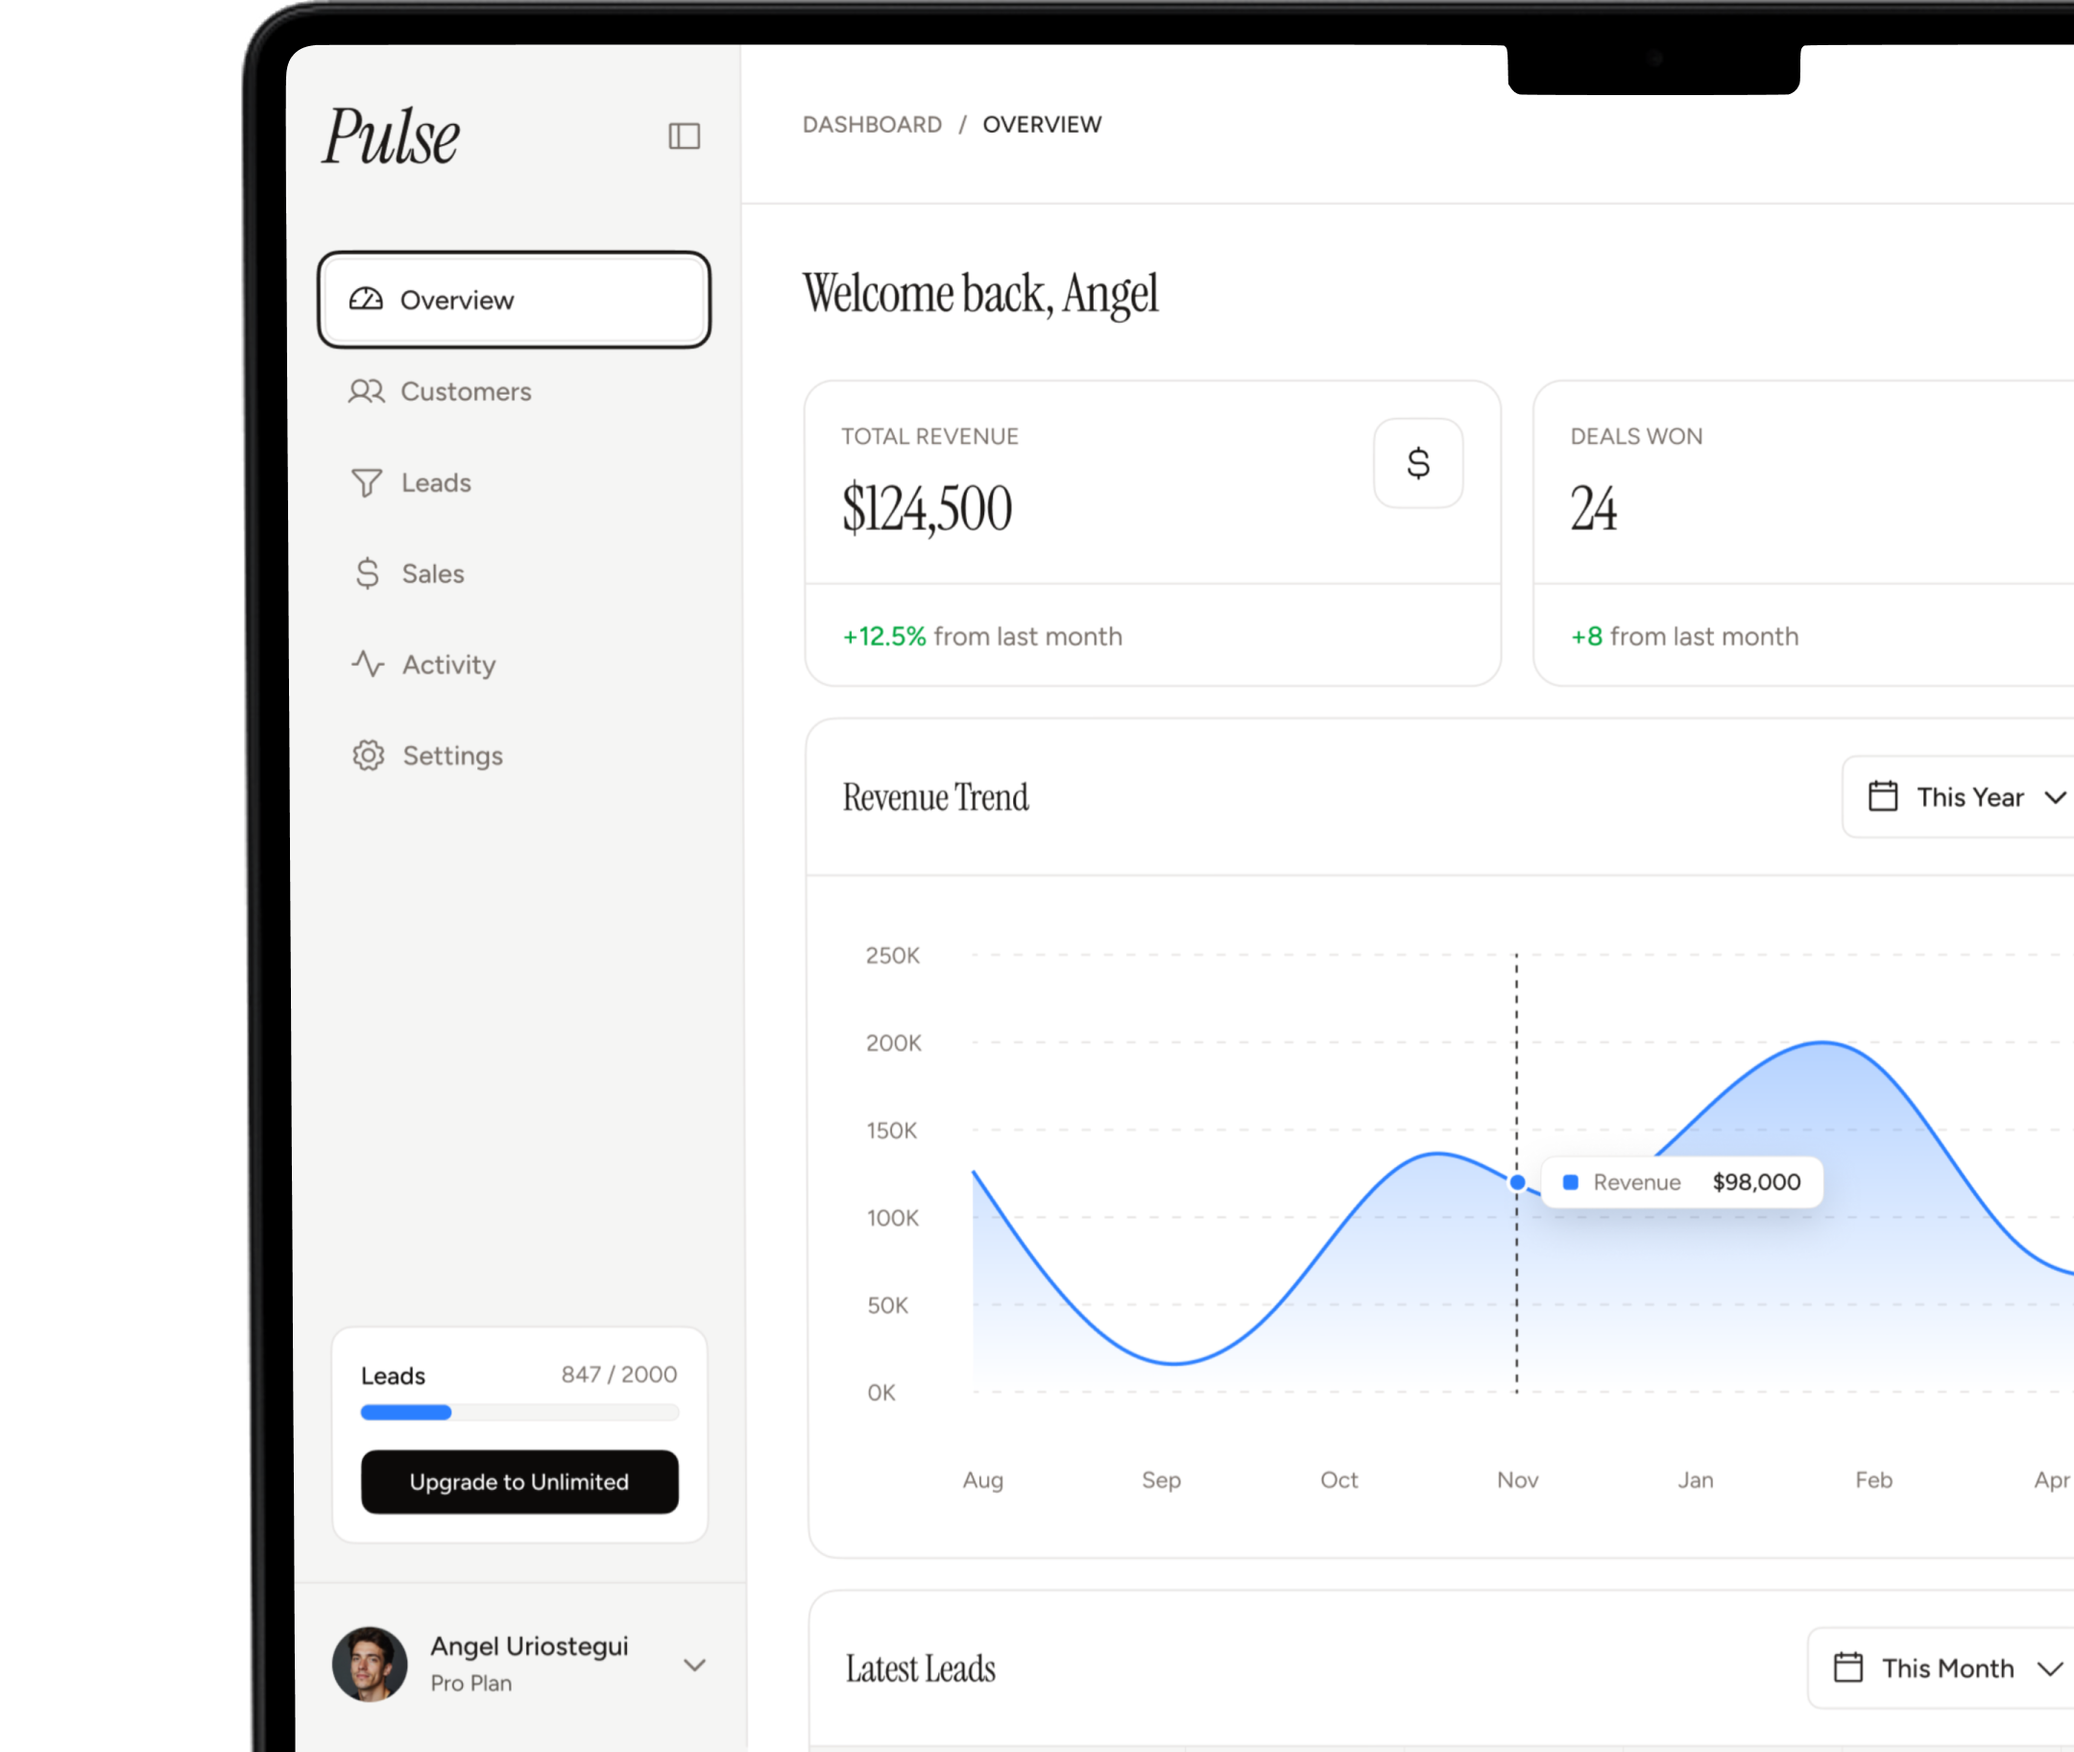
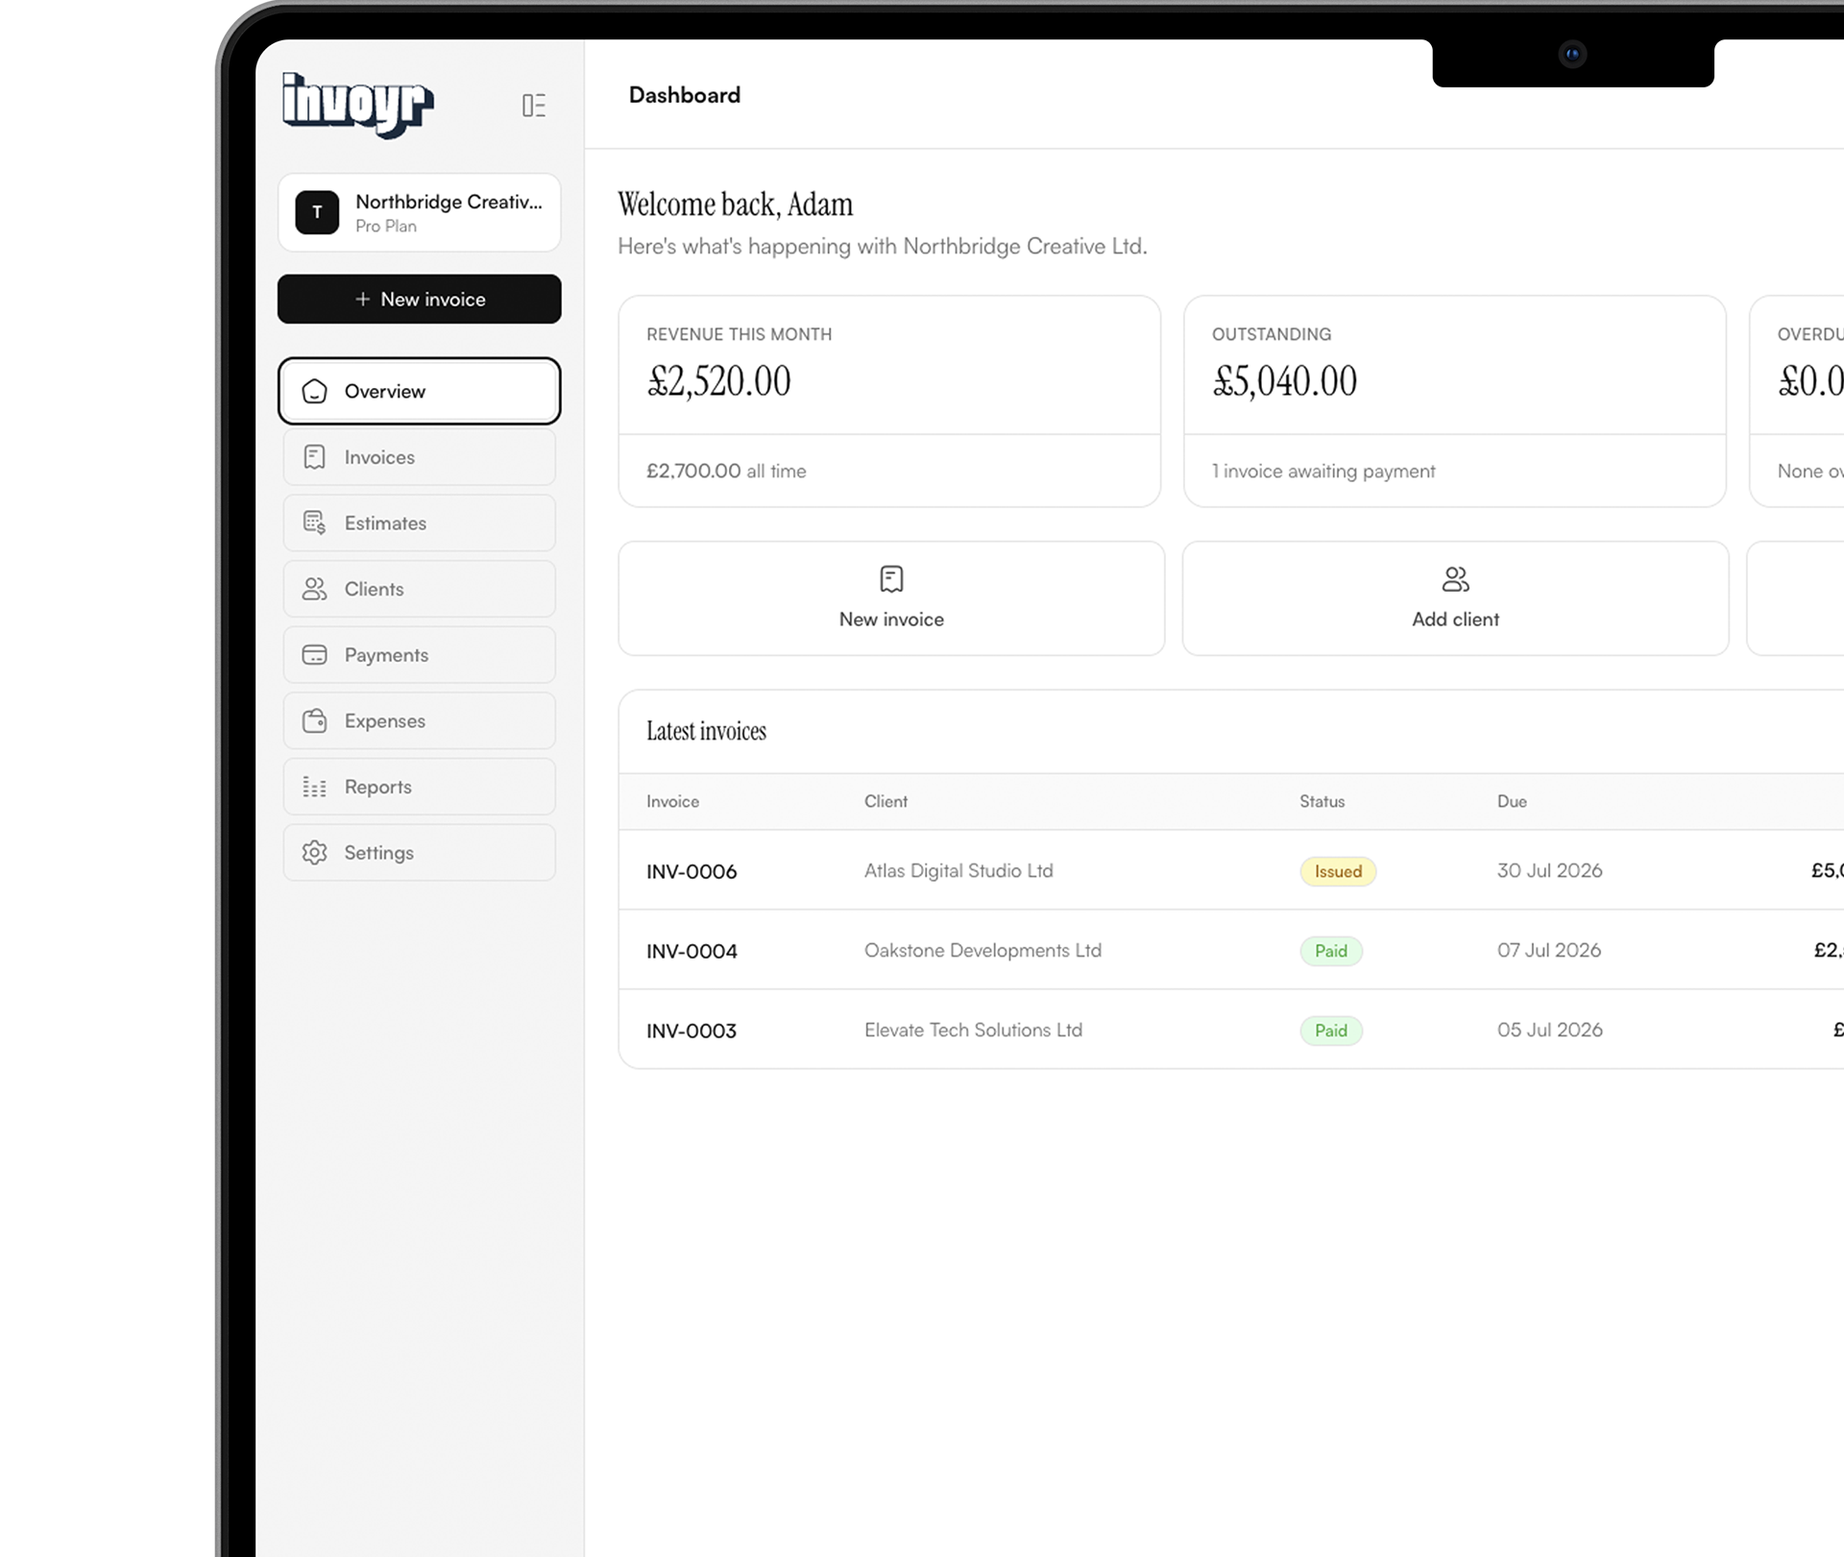
Fill legal entity details, fix trial copy, update login image
- Privacy + Terms: real entity (Invoyr Ltd, 128 City Road, London, EC1V 2NX),
  governing law England and Wales, all contact emails → support@invoyr.io.
  Still pending a legal review.
- Onboarding: "14-day trial" → "7-day trial" (matches the actual trial length).
- Updated public/login.png.

Claude-Session: https://claude.ai/code/session_01HyvHKUSocKapapSBR2ZbFd

diff --git a/src/app/(marketing)/privacy/page.tsx b/src/app/(marketing)/privacy/page.tsx
@@ -6,18 +6,18 @@ export const metadata: Metadata = {
   description: "How Invoyr collects, uses, and protects your personal data.",
 };
 
-// NOTE: Starter policy — the bracketed [ ] items (legal entity, registered
-// address, ICO/registration details) must be completed and the whole document
-// reviewed by legal counsel before launch.
+// NOTE: Starter policy with Invoyr Ltd's real entity/address filled in. Still
+// should be reviewed by legal counsel before launch (and add an ICO
+// registration reference if/when registered).
 export default function PrivacyPage() {
   return (
     <LegalDoc title="Privacy Policy" lastUpdated="27 July 2026">
       <p>
-        This Privacy Policy explains how <strong>[Invoyr Ltd]</strong> (&ldquo;Invoyr&rdquo;,
+        This Privacy Policy explains how <strong>Invoyr Ltd</strong> (&ldquo;Invoyr&rdquo;,
         &ldquo;we&rdquo;, &ldquo;us&rdquo;) collects, uses, and protects your personal data when you
         use Invoyr and its related services (the &ldquo;Service&rdquo;). We are the data controller for
         the personal data described here. If you have any questions, contact us at{" "}
-        <a href="mailto:privacy@invoyr.io">privacy@invoyr.io</a>.
+        <a href="mailto:support@invoyr.io">support@invoyr.io</a>.
       </p>
 
       <h2>1. Data we collect</h2>
@@ -76,7 +76,7 @@ export default function PrivacyPage() {
         port your data, to object to certain processing, and to withdraw consent. California residents
         (CCPA/CPRA) have rights to know, delete, correct, and opt out of &ldquo;sale&rdquo;/&ldquo;sharing&rdquo;
         of personal information — we do not sell or share personal information in that sense. To exercise
-        any right, email <a href="mailto:privacy@invoyr.io">privacy@invoyr.io</a>. You may also lodge a
+        any right, email <a href="mailto:support@invoyr.io">support@invoyr.io</a>. You may also lodge a
         complaint with your local data-protection authority (in the UK, the ICO).
       </p>
 
@@ -104,8 +104,8 @@ export default function PrivacyPage() {
 
       <h2>12. Contact</h2>
       <p>
-        <strong>[Invoyr Ltd]</strong>, <strong>[registered address]</strong>. Email:{" "}
-        <a href="mailto:privacy@invoyr.io">privacy@invoyr.io</a>.
+        <strong>Invoyr Ltd</strong>, 128 City Road, London, United Kingdom, EC1V 2NX. Email:{" "}
+        <a href="mailto:support@invoyr.io">support@invoyr.io</a>.
       </p>
     </LegalDoc>
   );

diff --git a/src/app/(marketing)/terms/page.tsx b/src/app/(marketing)/terms/page.tsx
@@ -6,14 +6,14 @@ export const metadata: Metadata = {
   description: "The terms that govern your use of Invoyr.",
 };
 
-// NOTE: Starter terms — the bracketed [ ] items (legal entity, governing law)
-// must be completed and the whole document reviewed by legal counsel before launch.
+// NOTE: Starter terms with Invoyr Ltd's real entity + governing law filled in.
+// Still should be reviewed by legal counsel before launch.
 export default function TermsPage() {
   return (
     <LegalDoc title="Terms of Service" lastUpdated="27 July 2026">
       <p>
         These Terms of Service (&ldquo;Terms&rdquo;) govern your access to and use of Invoyr, provided by{" "}
-        <strong>[Invoyr Ltd]</strong> (&ldquo;Invoyr&rdquo;, &ldquo;we&rdquo;, &ldquo;us&rdquo;). By
+        <strong>Invoyr Ltd</strong> (&ldquo;Invoyr&rdquo;, &ldquo;we&rdquo;, &ldquo;us&rdquo;). By
         creating an account or using the Service you agree to these Terms. If you do not agree, do not
         use the Service.
       </p>
@@ -89,8 +89,8 @@ export default function TermsPage() {
 
       <h2>12. Governing law &amp; contact</h2>
       <p>
-        These Terms are governed by the laws of <strong>[England and Wales]</strong>. Questions? Email{" "}
-        <a href="mailto:hello@invoyr.io">hello@invoyr.io</a>.
+        These Terms are governed by the laws of <strong>England and Wales</strong>. Questions? Email{" "}
+        <a href="mailto:support@invoyr.io">support@invoyr.io</a>.
       </p>
     </LegalDoc>
   );

diff --git a/src/components/onboarding/StepFirstInvoice.tsx b/src/components/onboarding/StepFirstInvoice.tsx
@@ -76,7 +76,7 @@ export default function StepFirstInvoice({ data, onBack, onComplete, onConsentCh
         </div>
         <div className="mt-2 flex items-center justify-between">
           <span className="text-neutral-500">Plan</span>
-          <span className="font-medium text-neutral-950 capitalize">{data.plan} · 14-day trial</span>
+          <span className="font-medium text-neutral-950 capitalize">{data.plan} · 7-day trial</span>
         </div>
       </div>
 
